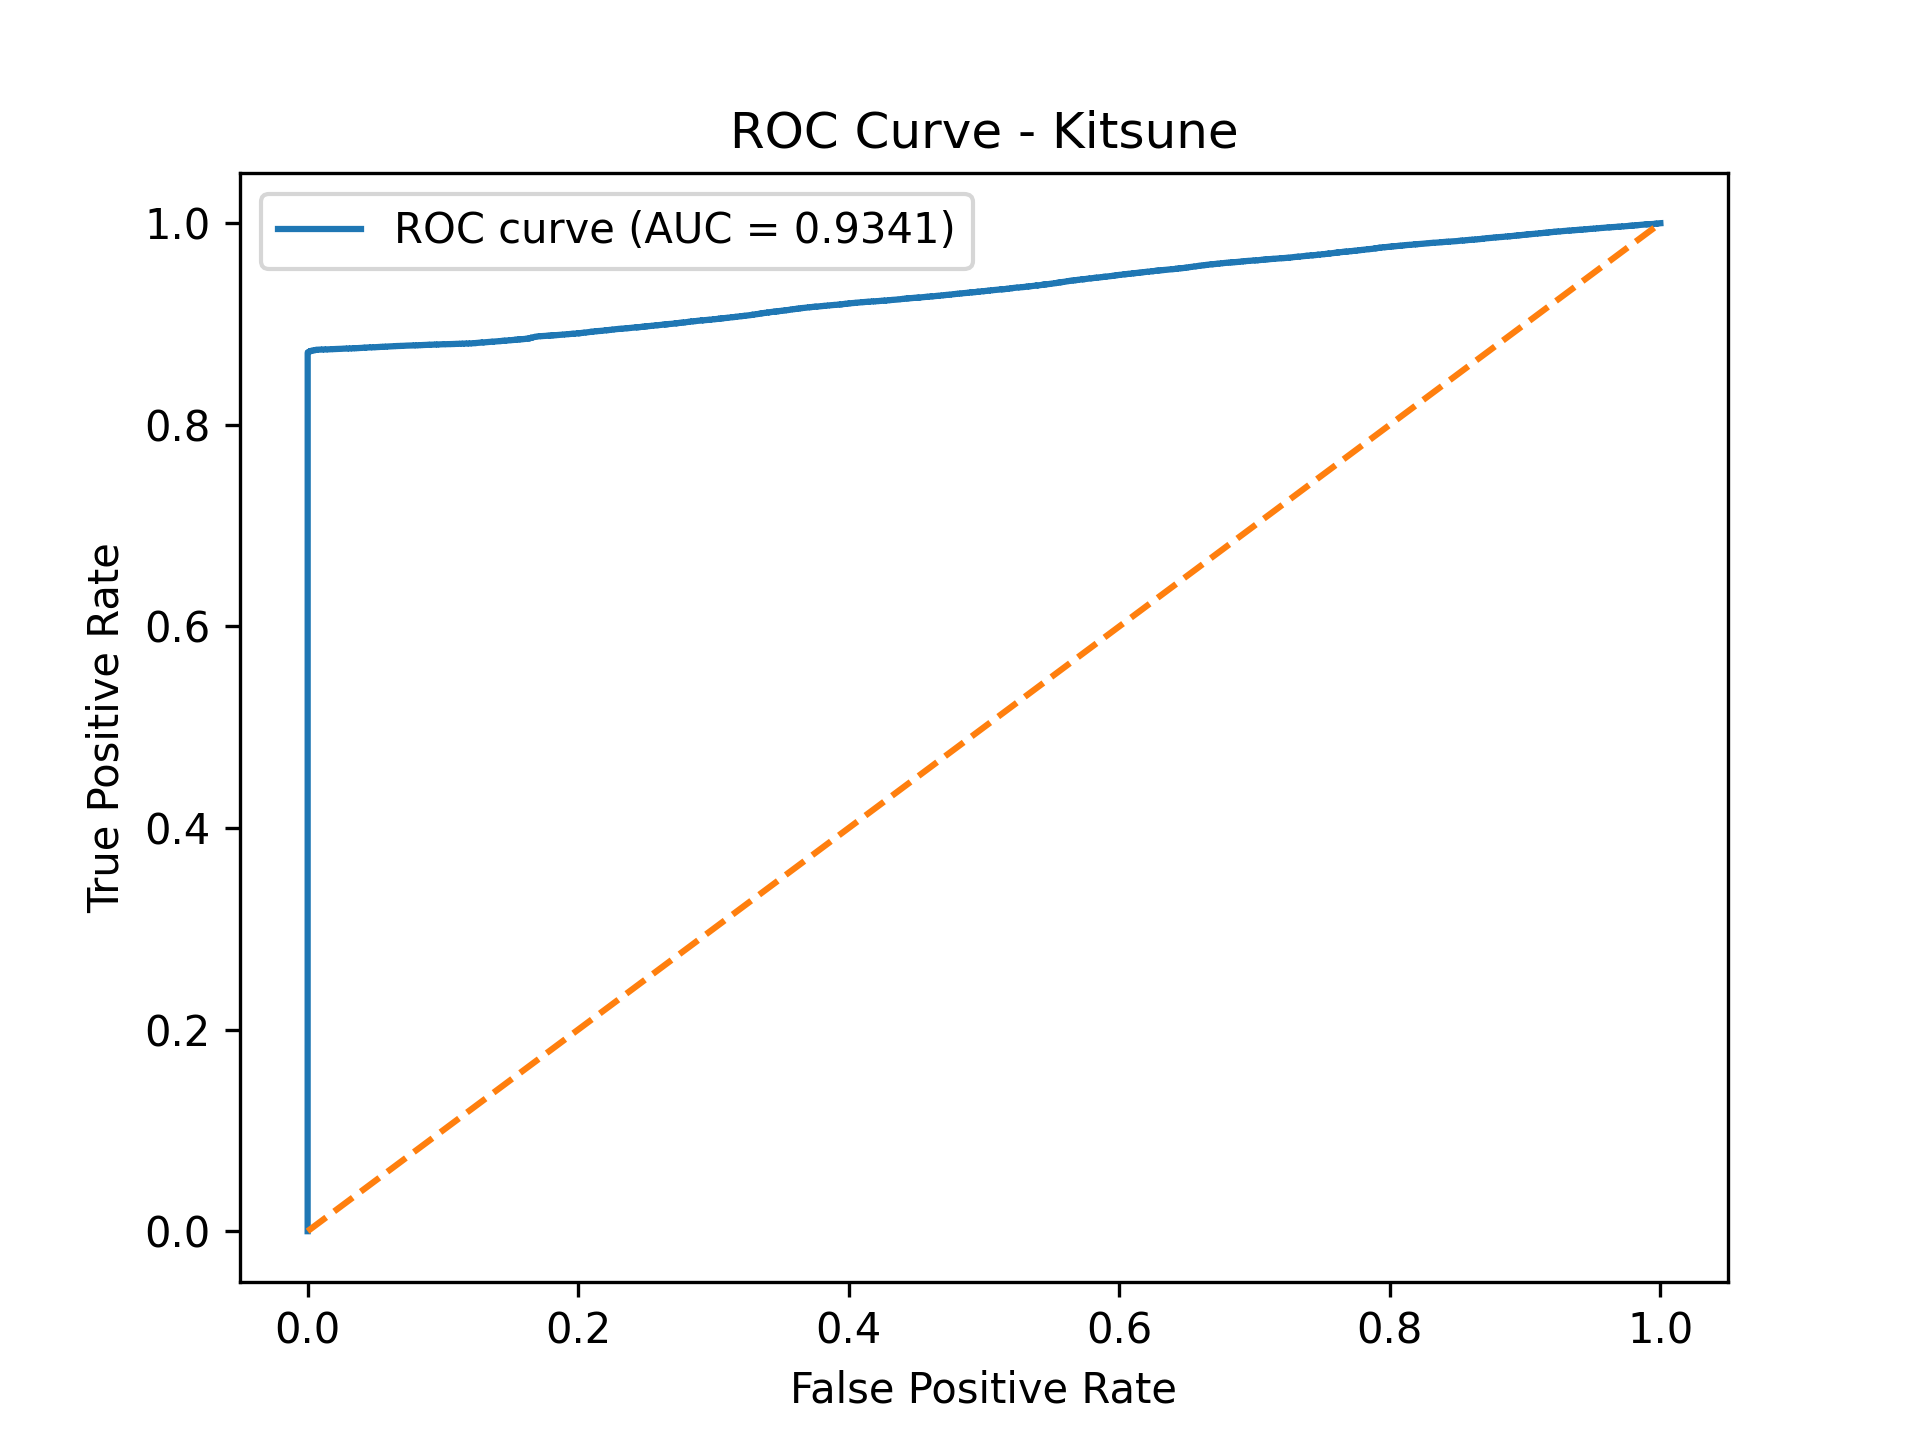
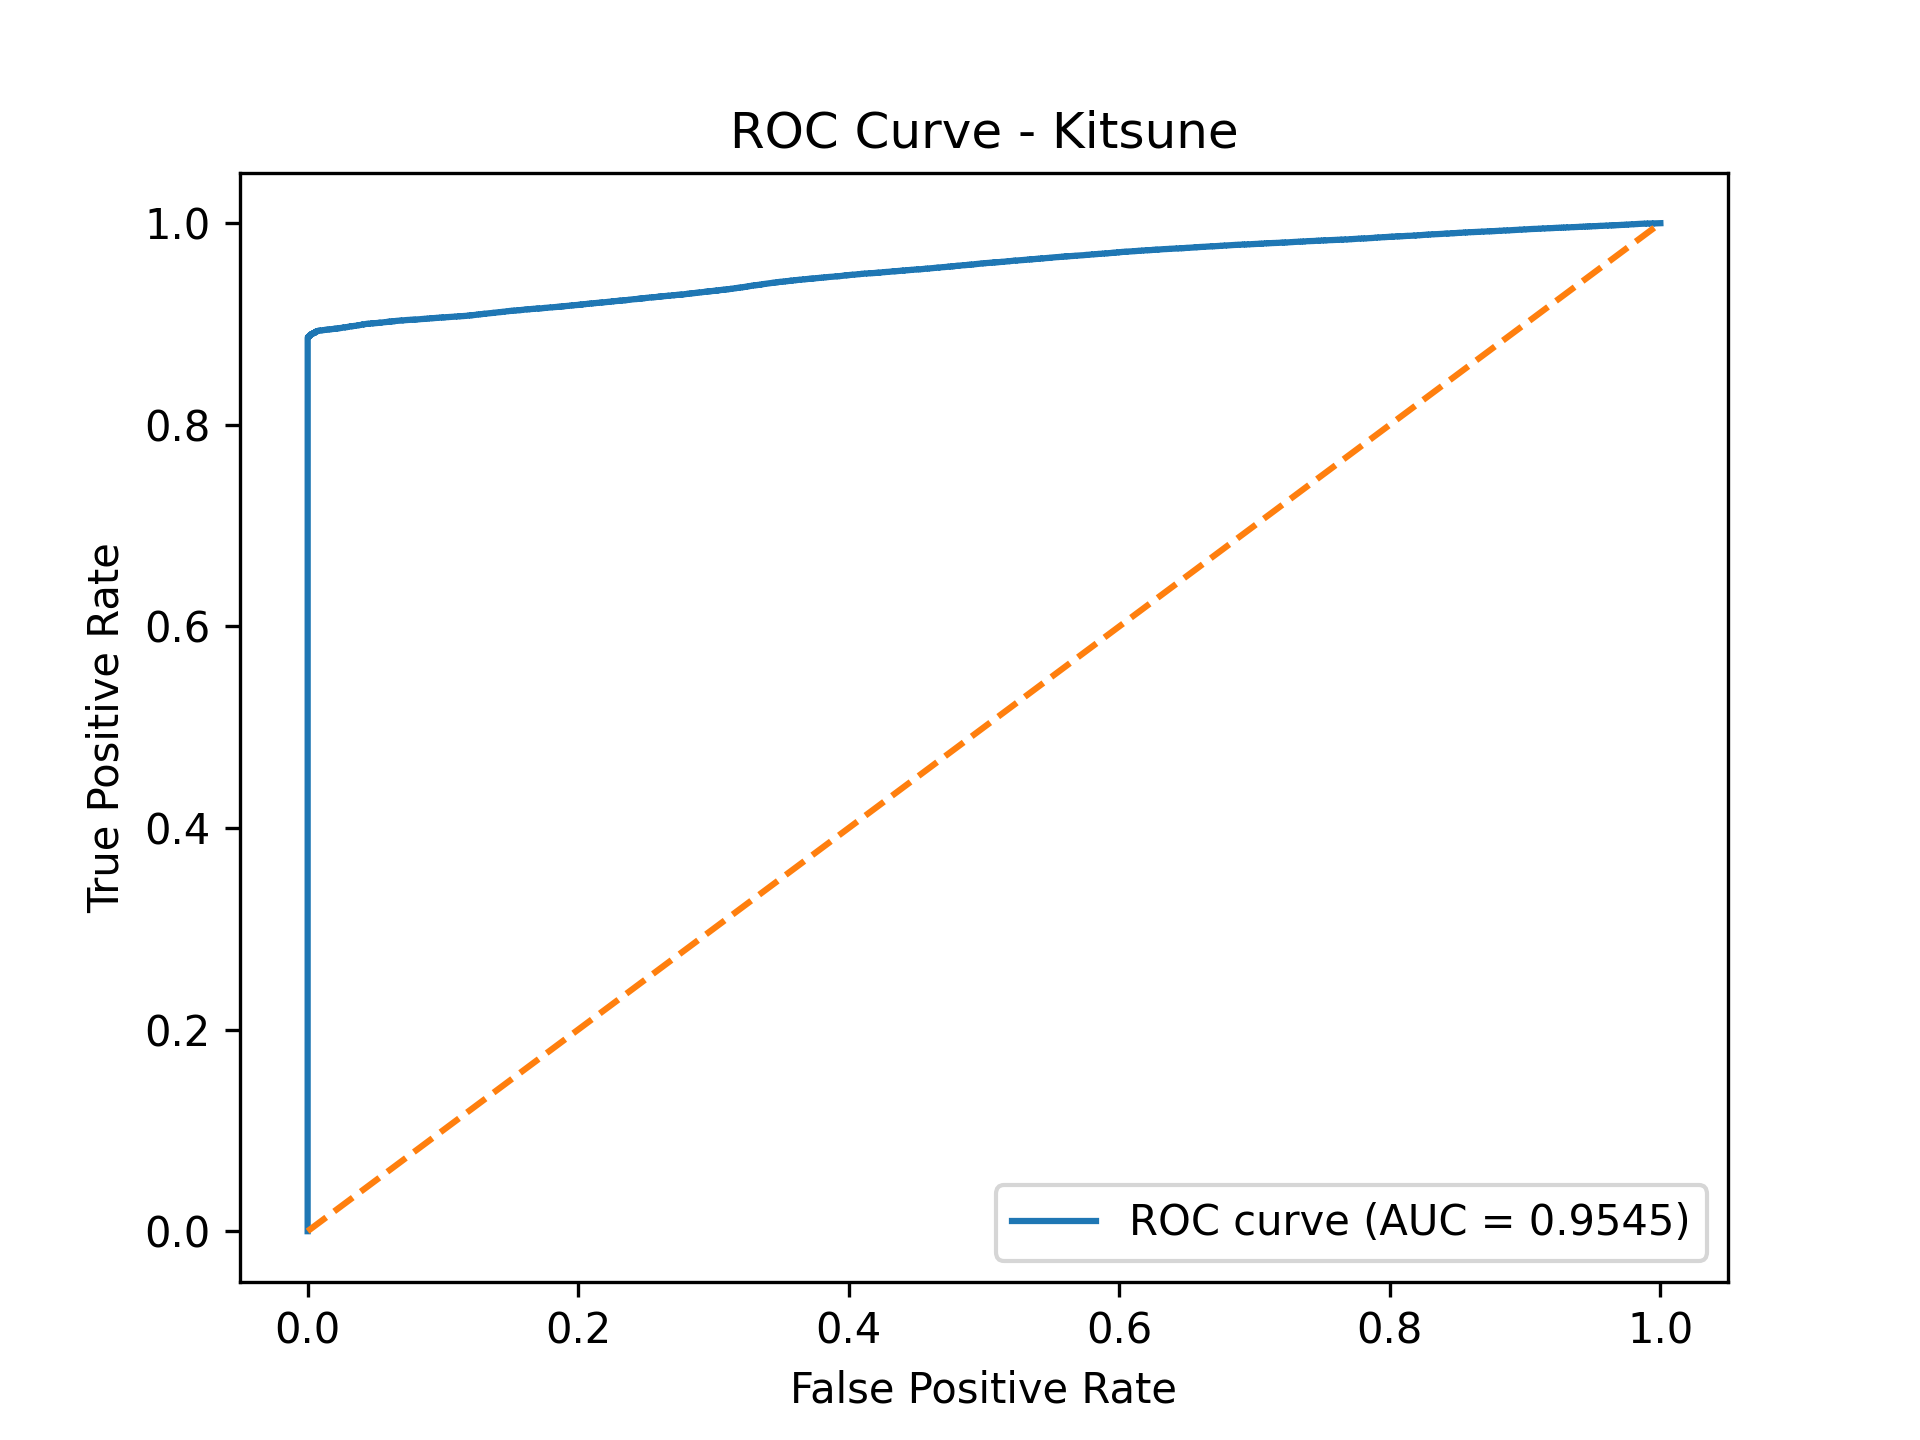
labels file creation during split

Changed region(s): [[0.125, 0.125, 0.8125, 0.25], [0.5, 0.8125, 0.9062, 0.875]]

diff --git a/src/Feature_Extraction/Split/Kitsune_split_dataset.py b/src/Feature_Extraction/Split/Kitsune_split_dataset.py
@@ -3,12 +3,24 @@ import pandas as pd
 from pathlib import Path
 import argparse
 
-TSHARK = "/Applications/Wireshark.app/Contents/MacOS/tshark"
+# TSHARK = "/Applications/Wireshark.app/Contents/MacOS/tshark" # For MacOS users
+TSHARK = "tshark" # For Linux users
 
-def split_dataset(benign_pcap, malicious_pcap, output_train_nids, output_train_adversarial, output_test_adversarial):
+TRAIN_NIDS_RATIO = 0.6  # 60% train NIDS
+TRAIN_SURROGATE_B_RATIO = 0.2 # 20% train surrogate
+TEST_ADVERSARIAL_B_RATIO = 0.2 # 20% test adversarial
+
+TRAIN_ADVERSARIAL_RATIO = 0.7 # 70% train adversarial and surrogate
+TEST_ADVERSARIAL_M_RATIO = 0.3 # 30% test adversarial
+
+
+def split_dataset(benign_pcap, malicious_pcap,
+                  output_train_nids, 
+                  output_train_adversarial, 
+                  output_test_adversarial):
     # extrair timestamps
     cmd = [
-        "tshark", "-r", benign_pcap,
+        TSHARK, "-r", benign_pcap,
         "-T", "fields",
         "-e", "frame.time_epoch"
     ]
@@ -18,12 +30,12 @@ def split_dataset(benign_pcap, malicious_pcap, output_train_nids, output_train_a
     )
 
     t_benign_0 = timestamps.min()
-    t_benign_60 = timestamps.quantile(0.60)
-    t_benign_80 = timestamps.quantile(0.80)
+    t_benign_i1 = timestamps.quantile(TRAIN_NIDS_RATIO)
+    t_benign_i2 = timestamps.quantile(TRAIN_NIDS_RATIO + TRAIN_SURROGATE_B_RATIO)
     t_benign_end = timestamps.max() + 1  # to include the last packet
 
     cmd = [
-        "tshark", "-r", malicious_pcap,
+        TSHARK, "-r", malicious_pcap,
         "-T", "fields",
         "-e", "frame.time_epoch"
     ]
@@ -33,12 +45,12 @@ def split_dataset(benign_pcap, malicious_pcap, output_train_nids, output_train_a
     )
 
     t_malicious_0 = timestamps.min()
-    t_malicious_30 = timestamps.quantile(0.30)
+    t_malicious_i1 = timestamps.quantile(TRAIN_ADVERSARIAL_RATIO)
     t_malicious_end = timestamps.max() + 1  # to include the last packet
 
     def cut_pcap(input_pcap, output_pcap, t_start, t_end):
         cmd = [
-            "tshark",
+            TSHARK,
             "-r", input_pcap,
             "-Y", f"frame.time_epoch >= {t_start} && frame.time_epoch < {t_end}",
             "-w", output_pcap
@@ -48,26 +60,57 @@ def split_dataset(benign_pcap, malicious_pcap, output_train_nids, output_train_a
     benign_file_name = Path(benign_pcap).name
     malicious_file_name = Path(malicious_pcap).name
 
-    cut_pcap(benign_pcap, output_train_nids + benign_file_name, t_benign_0, t_benign_60) # 60% train NIDS
-    cut_pcap(benign_pcap, output_train_adversarial + benign_file_name, t_benign_60, t_benign_80) # 20% train surrogate
-    cut_pcap(benign_pcap, output_test_adversarial + benign_file_name, t_benign_80, t_benign_end) # 20% test adversarial
-    cut_pcap(malicious_pcap, output_test_adversarial + malicious_file_name, t_malicious_0, t_malicious_30) # 30% test adversarial
-    cut_pcap(malicious_pcap, output_train_adversarial + malicious_file_name, t_malicious_30, t_malicious_end) # 70% train adversarial and surrogate
+    cut_pcap(benign_pcap, output_train_nids + benign_file_name, t_benign_0, t_benign_i1)
+    cut_pcap(benign_pcap, output_train_adversarial + benign_file_name, t_benign_i1, t_benign_i2)
+    cut_pcap(benign_pcap, output_test_adversarial + benign_file_name, t_benign_i2, t_benign_end)
+    cut_pcap(malicious_pcap, output_train_adversarial + malicious_file_name, t_malicious_0, t_malicious_i1)
+    cut_pcap(malicious_pcap, output_test_adversarial + malicious_file_name, t_malicious_i1, t_malicious_end)
+
+def create_labels_file(attack_name, labels_file, output_train_adversarial, output_test_adversarial):
+    labels = pd.read_csv(labels_file)
+
+    n_benign = len(labels[labels.x == 0])
+    n_malicious = len(labels[labels.x == 1])
+
+    # Benign indices
+    idx_benign_train_sur_init = int(TRAIN_NIDS_RATIO * n_benign)
+    idx_benign_train_sur_end = int((TRAIN_NIDS_RATIO + TRAIN_SURROGATE_B_RATIO) * n_benign)
+
+    labels_train_sur_benign = labels[labels.x == 0].iloc[idx_benign_train_sur_init:idx_benign_train_sur_end]
+    labels_test_final_benign = labels[labels.x == 0].iloc[idx_benign_train_sur_end:]
+
+    # Malicious indices
+    idx_malicious_train_sur_end = int(TRAIN_ADVERSARIAL_RATIO * n_malicious)
+
+    labels_test_final_malicious = labels[labels.x == 1].iloc[:idx_malicious_train_sur_end]
+    labels_train_sur_malicious = labels[labels.x == 1].iloc[idx_malicious_train_sur_end:]
+
+    # Concatenate and sort
+    labels_train_sur = pd.concat([labels_train_sur_benign, labels_train_sur_malicious])
+    labels_train_sur = labels_train_sur.sort_index()
+    labels_test_final = pd.concat([labels_test_final_benign, labels_test_final_malicious])
+    labels_test_final = labels_test_final.sort_index()
+
+    # Save to CSV
+    labels_train_sur.to_csv(output_train_adversarial + attack_name + "_labels.csv", index=False)
+    labels_test_final.to_csv(output_test_adversarial + attack_name + "_labels.csv", index=False)
+
+
 
 if __name__ == "__main__":
 
     parse = argparse.ArgumentParser()
 
+    parse.add_argument('-a', '--attack_name', type=str, required=True, help="attack name")
     parse.add_argument('-b', '--benign_file', type=str, required=True, help="benign pcap file path")
     parse.add_argument('-m', '--malicious_file', type=str, required=True, help="malicious pcap file path")
+    parse.add_argument('-l', '--labels_file', type=str, required=True, help="label for the dataset")
     parse.add_argument('-on', '--output_train_nids_path', type=str, required=False, help="output train nids pcap path", default="data/preprocessed/target_train/")
     parse.add_argument('-oa', '--output_train_adversarial_path', type=str, required=False, help="output benign pcap path", default="data/preprocessed/adversarial_train/")
     parse.add_argument('-ot', '--output_test_adversarial_path', type=str, required=False, help="output malicious pcap path", default="data/preprocessed/adversarial_test/")
     arg = parse.parse_args()
-    benign_file=arg.benign_file
-    malicious_file=arg.malicious_file
-    output_train_nids = arg.output_train_nids_path
     output_train_adversarial = arg.output_train_adversarial_path
     output_test_adversarial = arg.output_test_adversarial_path
 
-    split_dataset(benign_file, malicious_file, output_train_nids, output_train_adversarial, output_test_adversarial)
+    split_dataset(arg.benign_file, arg.malicious_file, arg.output_train_nids_path, output_train_adversarial, output_test_adversarial)
+    create_labels_file(arg.attack_name, arg.labels_file, output_train_adversarial, output_test_adversarial)
